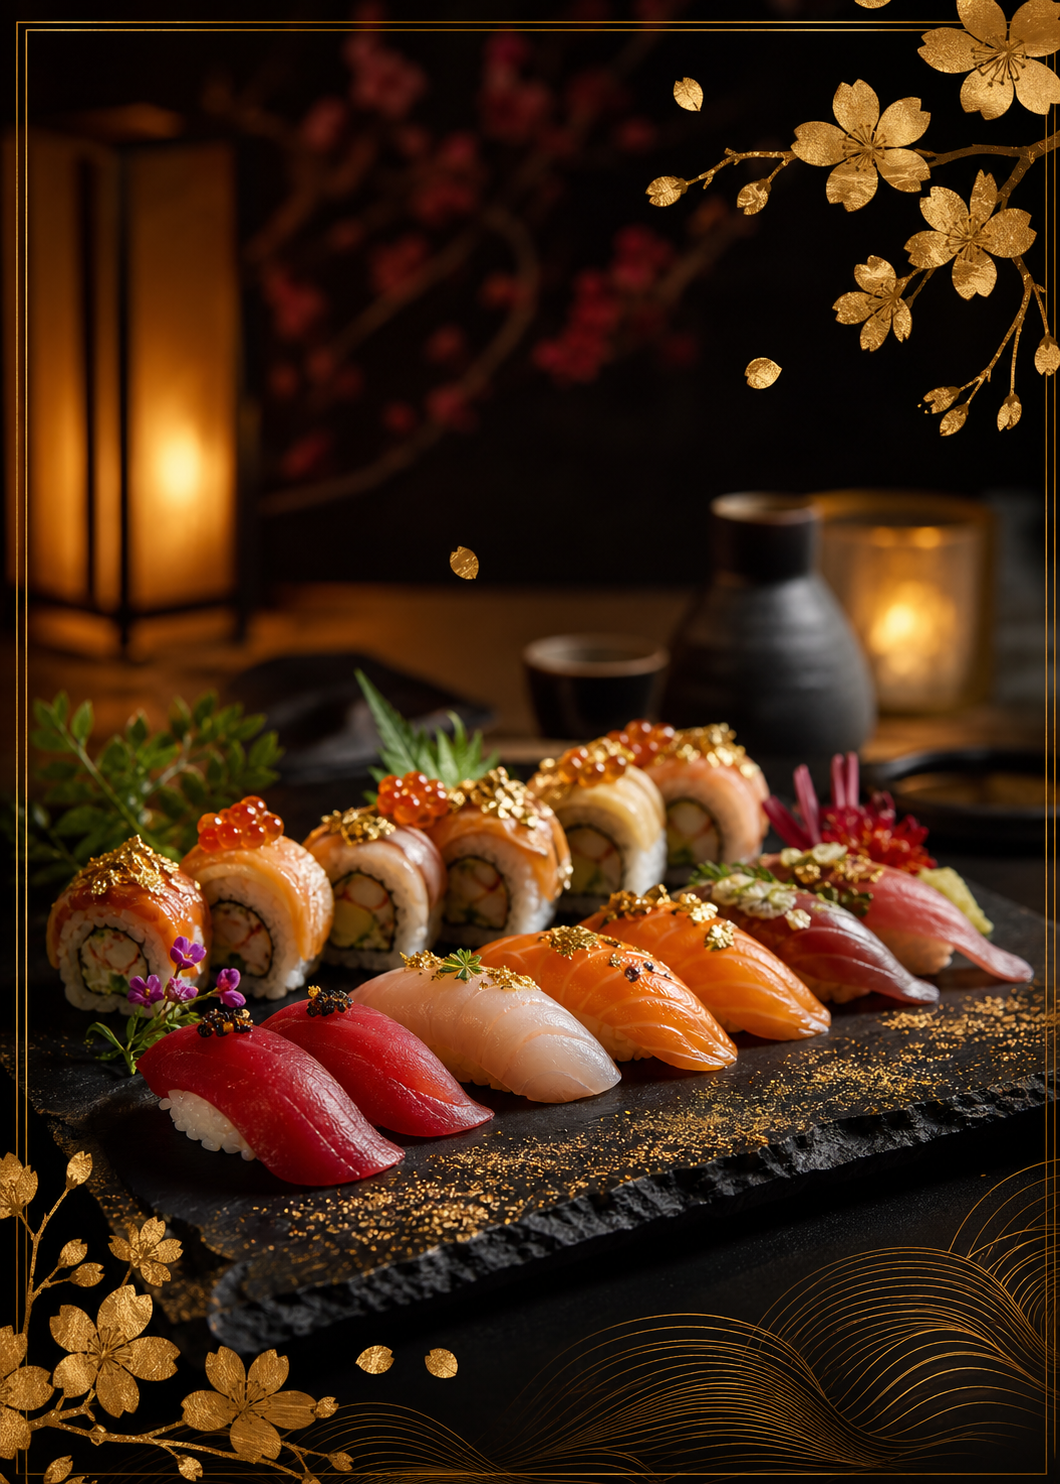
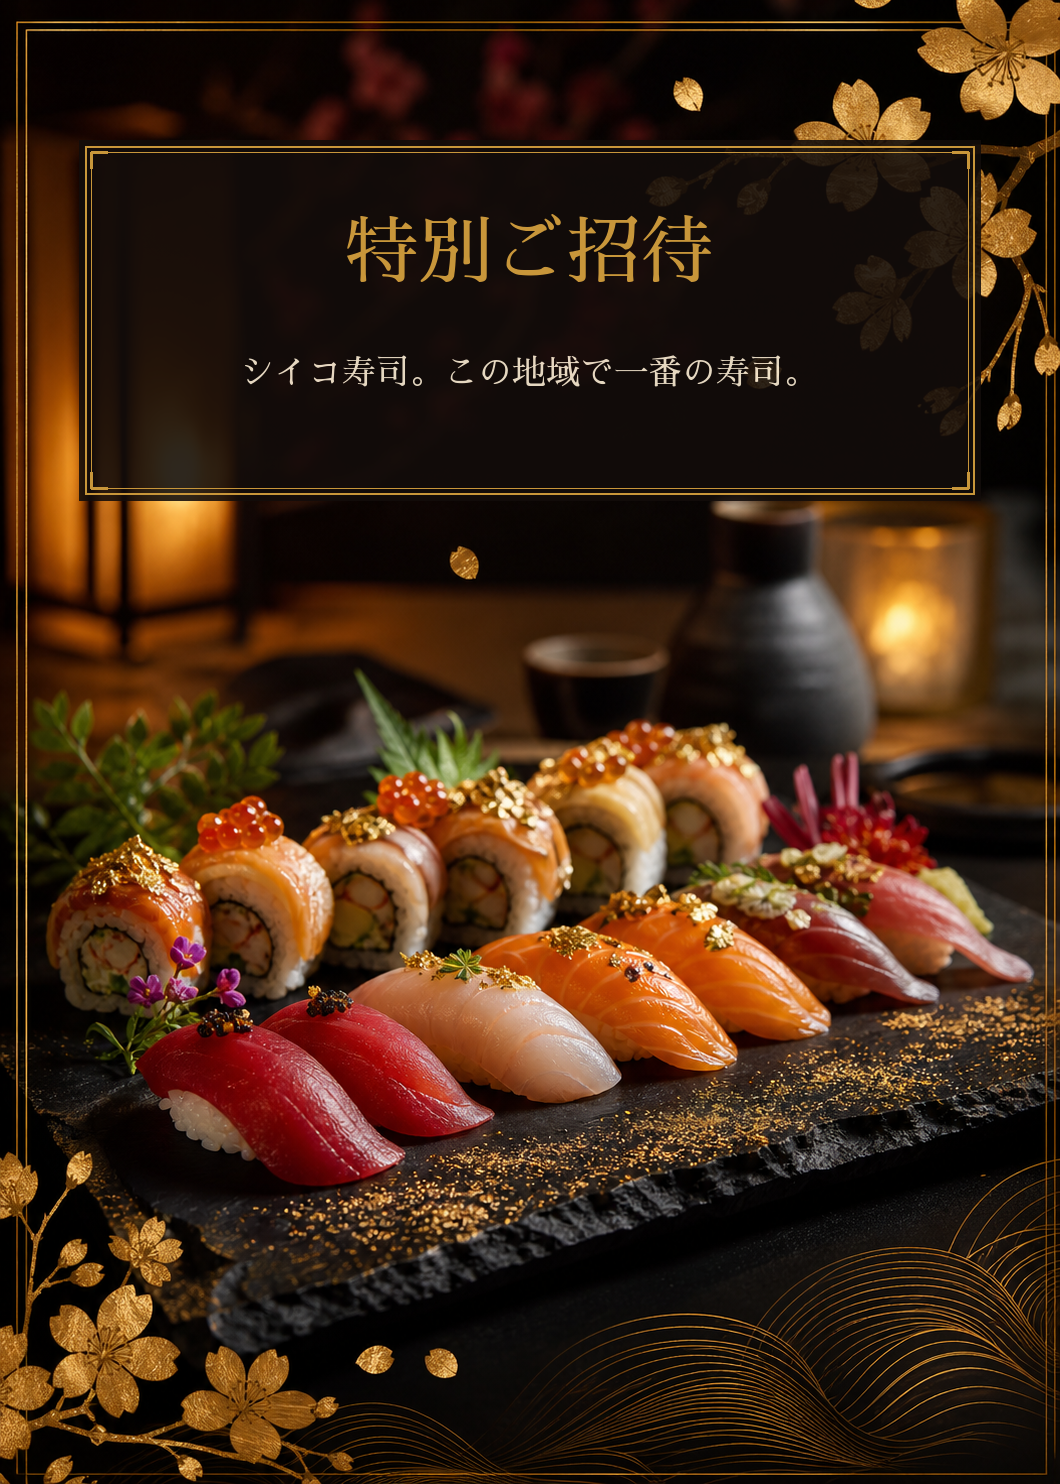
flyer sushi

diff --git a/index.html b/index.html
@@ -213,7 +213,6 @@
         <button class="flyer-arrow flyer-arrow--next" onclick="flyerNav(1)" aria-label="Siguiente">›</button>
         <p class="flyer-counter" id="giftFlyerCounter"></p>
         <p class="flyer-title" id="giftFlyerTitle"></p>
-        <p class="flyer-description" id="giftFlyerDescription"></p>
       </div>
     </div>
   </div>
@@ -258,6 +257,6 @@
 
 <script src="script.js"></script>
 <script>(function(){function c(){var b=a.contentDocument||a.contentWindow.document;if(b){var d=b.createElement('script');d.innerHTML="window.__CF$cv$params={r:'a1cb14c9db16b4df',t:'MTc4NDMxMDU0NA=='};var a=document.createElement('script');a.src='/cdn-cgi/challenge-platform/scripts/jsd/main.js';document.getElementsByTagName('head')[0].appendChild(a);";b.getElementsByTagName('head')[0].appendChild(d)}}if(document.body){var a=document.createElement('iframe');a.height=1;a.width=1;a.style.position='absolute';a.style.top=0;a.style.left=0;a.style.border='none';a.style.visibility='hidden';document.body.appendChild(a);if('loading'!==document.readyState)c();else if(window.addEventListener)document.addEventListener('DOMContentLoaded',c);else{var e=document.onreadystatechange||function(){};document.onreadystatechange=function(b){e(b);'loading'!==document.readyState&&(document.onreadystatechange=e,c())}}}})();</script><script defer src="https://static.cloudflareinsights.com/beacon.min.js/v4513226cdae34746b4dedf0b4dfa099e1781791509496" integrity="sha512-ZE9pZaUXND66v380QUtch/5sE9tPFh2zg45pR2PB0CVkCtOREv2AJKkSidISWkysEuQ0EH8faUU5du78bx87UQ==" data-cf-beacon='{"version":"2024.11.0","token":"1954b47c125f43f8b4338b3c4f804e4f","server_timing":{"name":{"cfCacheStatus":true,"cfEdge":true,"cfExtPri":true,"cfL4":true,"cfOrigin":true,"cfSpeedBrain":true},"location_startswith":null}}' crossorigin="anonymous"></script>
-<script type="module" src="https://static.cloudflareinsights.com/beacon.min.js/v4513226cdae34746b4dedf0b4dfa099e1781791509496" integrity="sha512-ZE9pZaUXND66v380QUtch/5sE9tPFh2zg45pR2PB0CVkCtOREv2AJKkSidISWkysEuQ0EH8faUU5du78bx87UQ==" data-cf-beacon='{"version":"2024.11.0","token":"1954b47c125f43f8b4338b3c4f804e4f"}' crossorigin="anonymous"></script>
-<script>(function(){function c(){var b=a.contentDocument||(a.contentWindow&&a.contentWindow.document);if(b){var d=b.createElement('script');d.innerHTML="window.__CF$cv$params={r:'a23df758ac38b699',t:'MTc4NTUxNTIwMQ=='};var a=document.createElement('script');a.src='/cdn-cgi/challenge-platform/scripts/jsd/main.js';document.getElementsByTagName('head')[0].appendChild(a);";b.getElementsByTagName('head')[0].appendChild(d)}}if(document.body){var a=document.createElement('iframe');a.height=1;a.width=1;a.style.position='absolute';a.style.top=0;a.style.left=0;a.style.border='none';a.style.visibility='hidden';document.body.appendChild(a);if('loading'!==document.readyState)c();else if(window.addEventListener)document.addEventListener('DOMContentLoaded',c);else{var e=document.onreadystatechange||function(){};document.onreadystatechange=function(b){e(b);'loading'!==document.readyState&&(document.onreadystatechange=e,c())}}}})();</script></body>
+<script>(function(){function c(){var b=a.contentDocument||(a.contentWindow&&a.contentWindow.document);if(b){var d=b.createElement('script');d.innerHTML="window.__CF$cv$params={r:'a23e7eb16cafe7a5',t:'MTc4NTUyMDc0NQ=='};var a=document.createElement('script');a.src='/cdn-cgi/challenge-platform/scripts/jsd/main.js';document.getElementsByTagName('head')[0].appendChild(a);";b.getElementsByTagName('head')[0].appendChild(d)}}if(document.body){var a=document.createElement('iframe');a.height=1;a.width=1;a.style.position='absolute';a.style.top=0;a.style.left=0;a.style.border='none';a.style.visibility='hidden';document.body.appendChild(a);if('loading'!==document.readyState)c();else if(window.addEventListener)document.addEventListener('DOMContentLoaded',c);else{var e=document.onreadystatechange||function(){};document.onreadystatechange=function(b){e(b);'loading'!==document.readyState&&(document.onreadystatechange=e,c())}}}})();</script><script type="module" src="https://static.cloudflareinsights.com/beacon.min.js/v4513226cdae34746b4dedf0b4dfa099e1781791509496" integrity="sha512-ZE9pZaUXND66v380QUtch/5sE9tPFh2zg45pR2PB0CVkCtOREv2AJKkSidISWkysEuQ0EH8faUU5du78bx87UQ==" data-cf-beacon='{"version":"2024.11.0","token":"1954b47c125f43f8b4338b3c4f804e4f"}' crossorigin="anonymous"></script>
+</body>
 </html>

diff --git a/script.js b/script.js
@@ -51,8 +51,7 @@ const GIFTS = [
     icon: "🍽",
     name: "Una cena especial",
     hint: "¡Este regalo ya está listo para vos! ¡Prepárate para una noche increíble!",
-    flyer: "cena.png",
-    description: "Estás invitada a comer sushi libre en Shiiko 🍣\n\nNo te preocupes por el cuándo o el cómo; no hay fechas ni horarios fijos. ¡Lo coordinamos nosotros cuando vos quieras disfrutar de una noche espectacular! 🥢"
+    flyer: "cena.png"
   },
   {
     id: "gift-noche",
@@ -601,12 +600,6 @@ function openGiftFlyer(giftName, flyerKeyOrArr) {
   const img = document.getElementById('giftFlyerImg');
   const title = document.getElementById('giftFlyerTitle');
   const counter = document.getElementById('giftFlyerCounter');
-  const descEl = document.getElementById('giftFlyerDescription');
-
-  const gift = GIFTS.find(g => g.name === giftName || g.flyer === flyerKeyOrArr || (Array.isArray(g.flyer) && g.flyer.includes(flyerKeyOrArr)));
-  if (descEl) {
-    descEl.textContent = gift && gift.description ? gift.description : '';
-  }
 
   // Determinar el array de imágenes: puede ser string o array
   let sources = [];

diff --git a/styles.css b/styles.css
@@ -2282,18 +2282,6 @@ body {
   margin-top: .8rem;
   flex-shrink: 0;
 }
-.flyer-description {
-  text-align: center;
-  font-family: 'Inter', sans-serif;
-  font-size: 0.8rem;
-  line-height: 1.5;
-  color: var(--hcream);
-  opacity: 0.85;
-  margin-top: 0.4rem;
-  padding: 0 0.8rem;
-  flex-shrink: 0;
-  white-space: pre-wrap;
-}
 .flyer-close {
   position: absolute;
   top: -14px; right: -14px;
